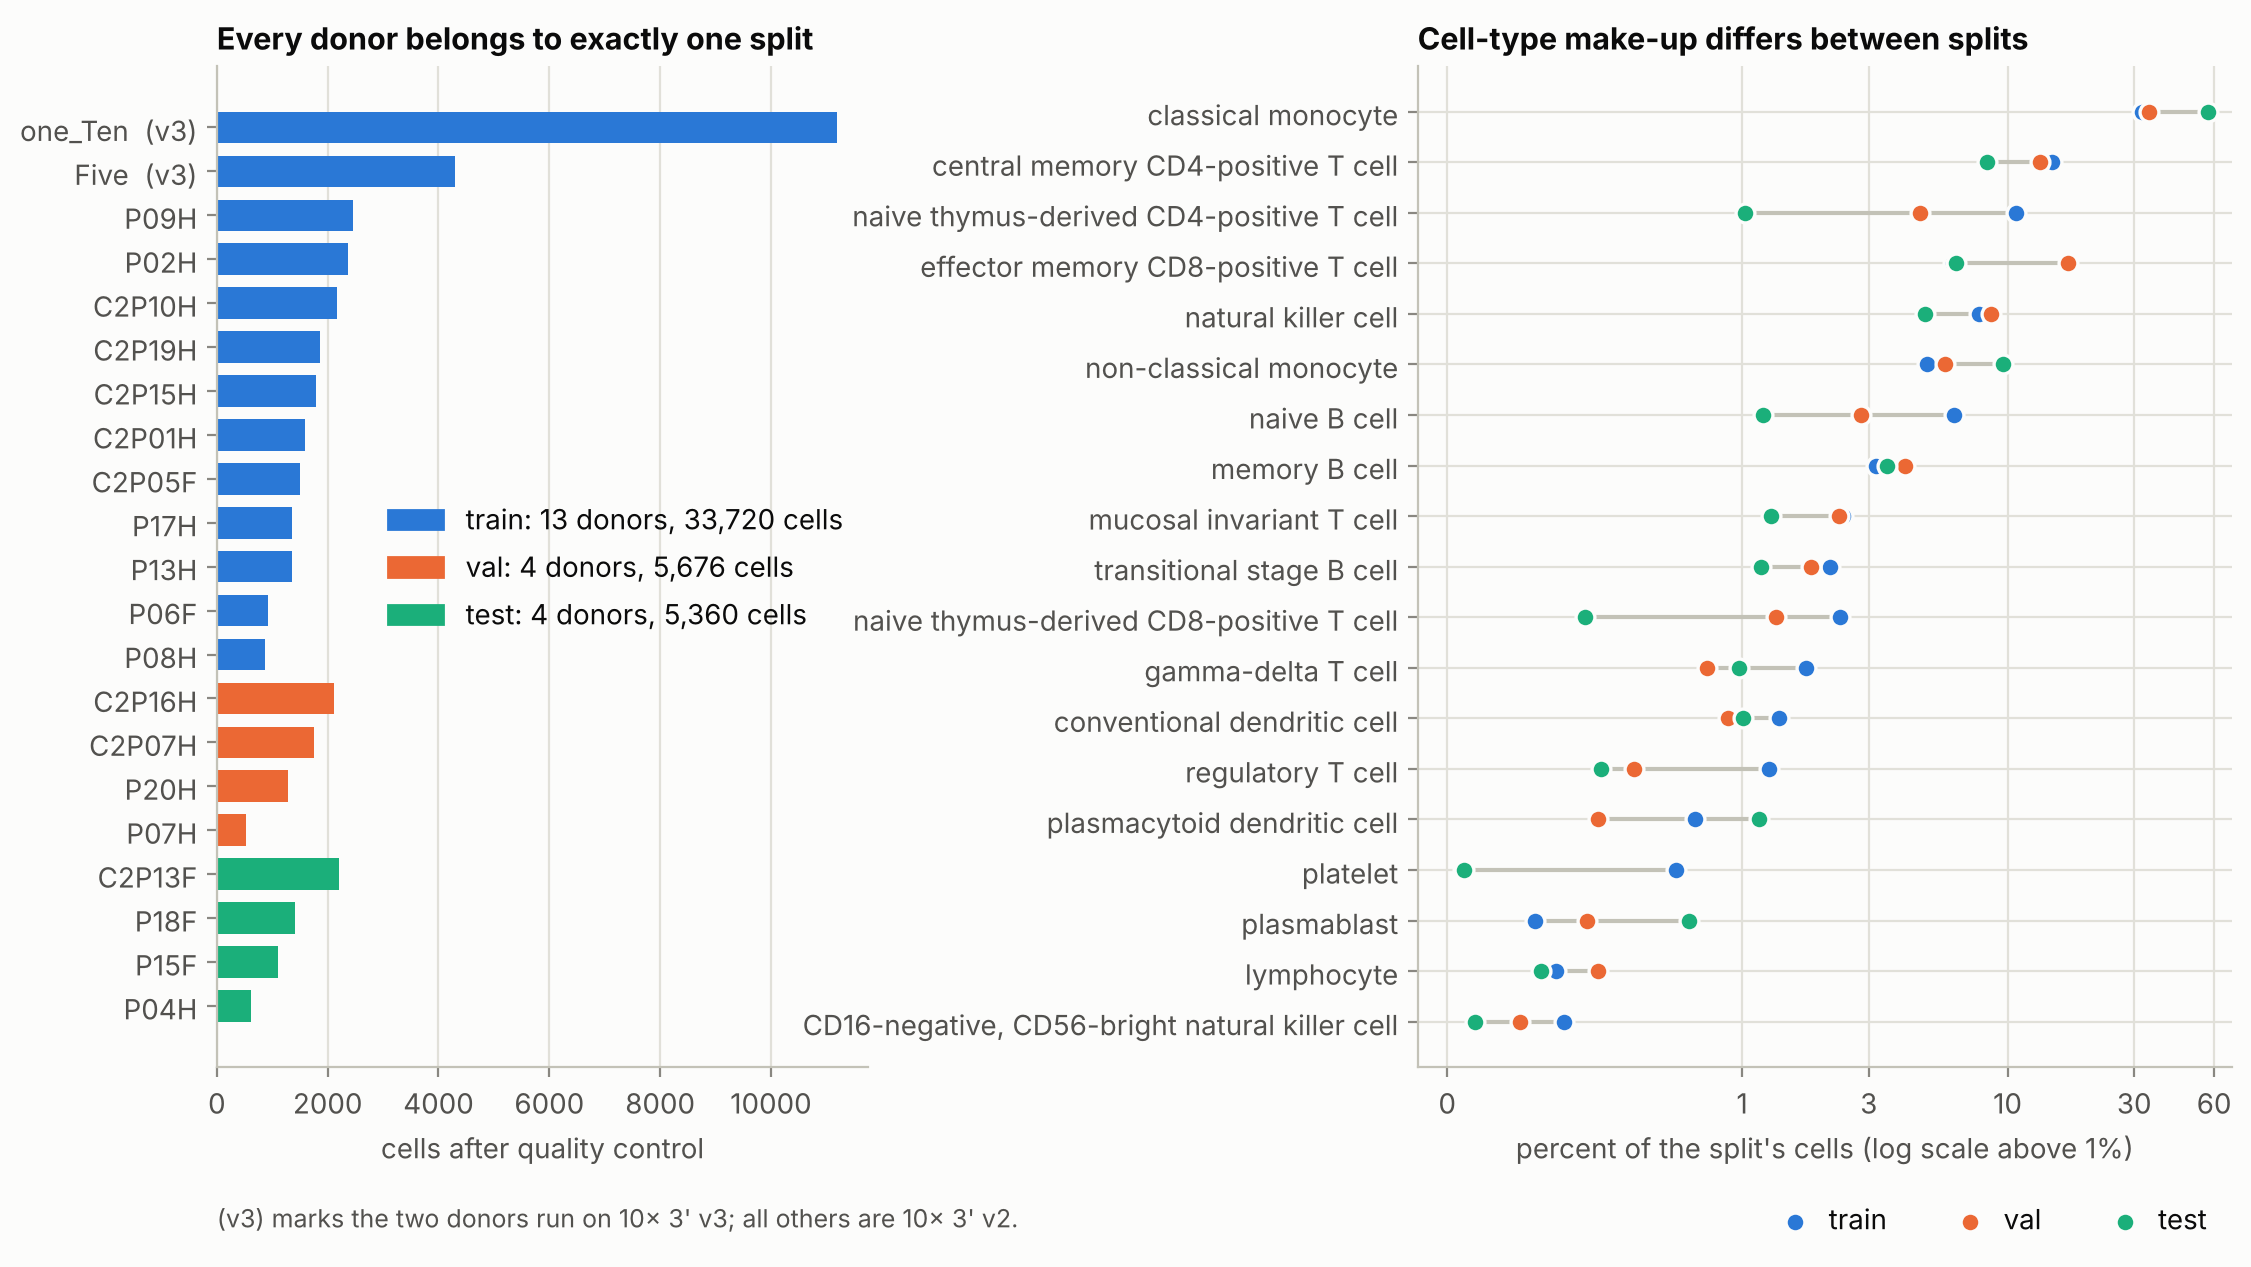
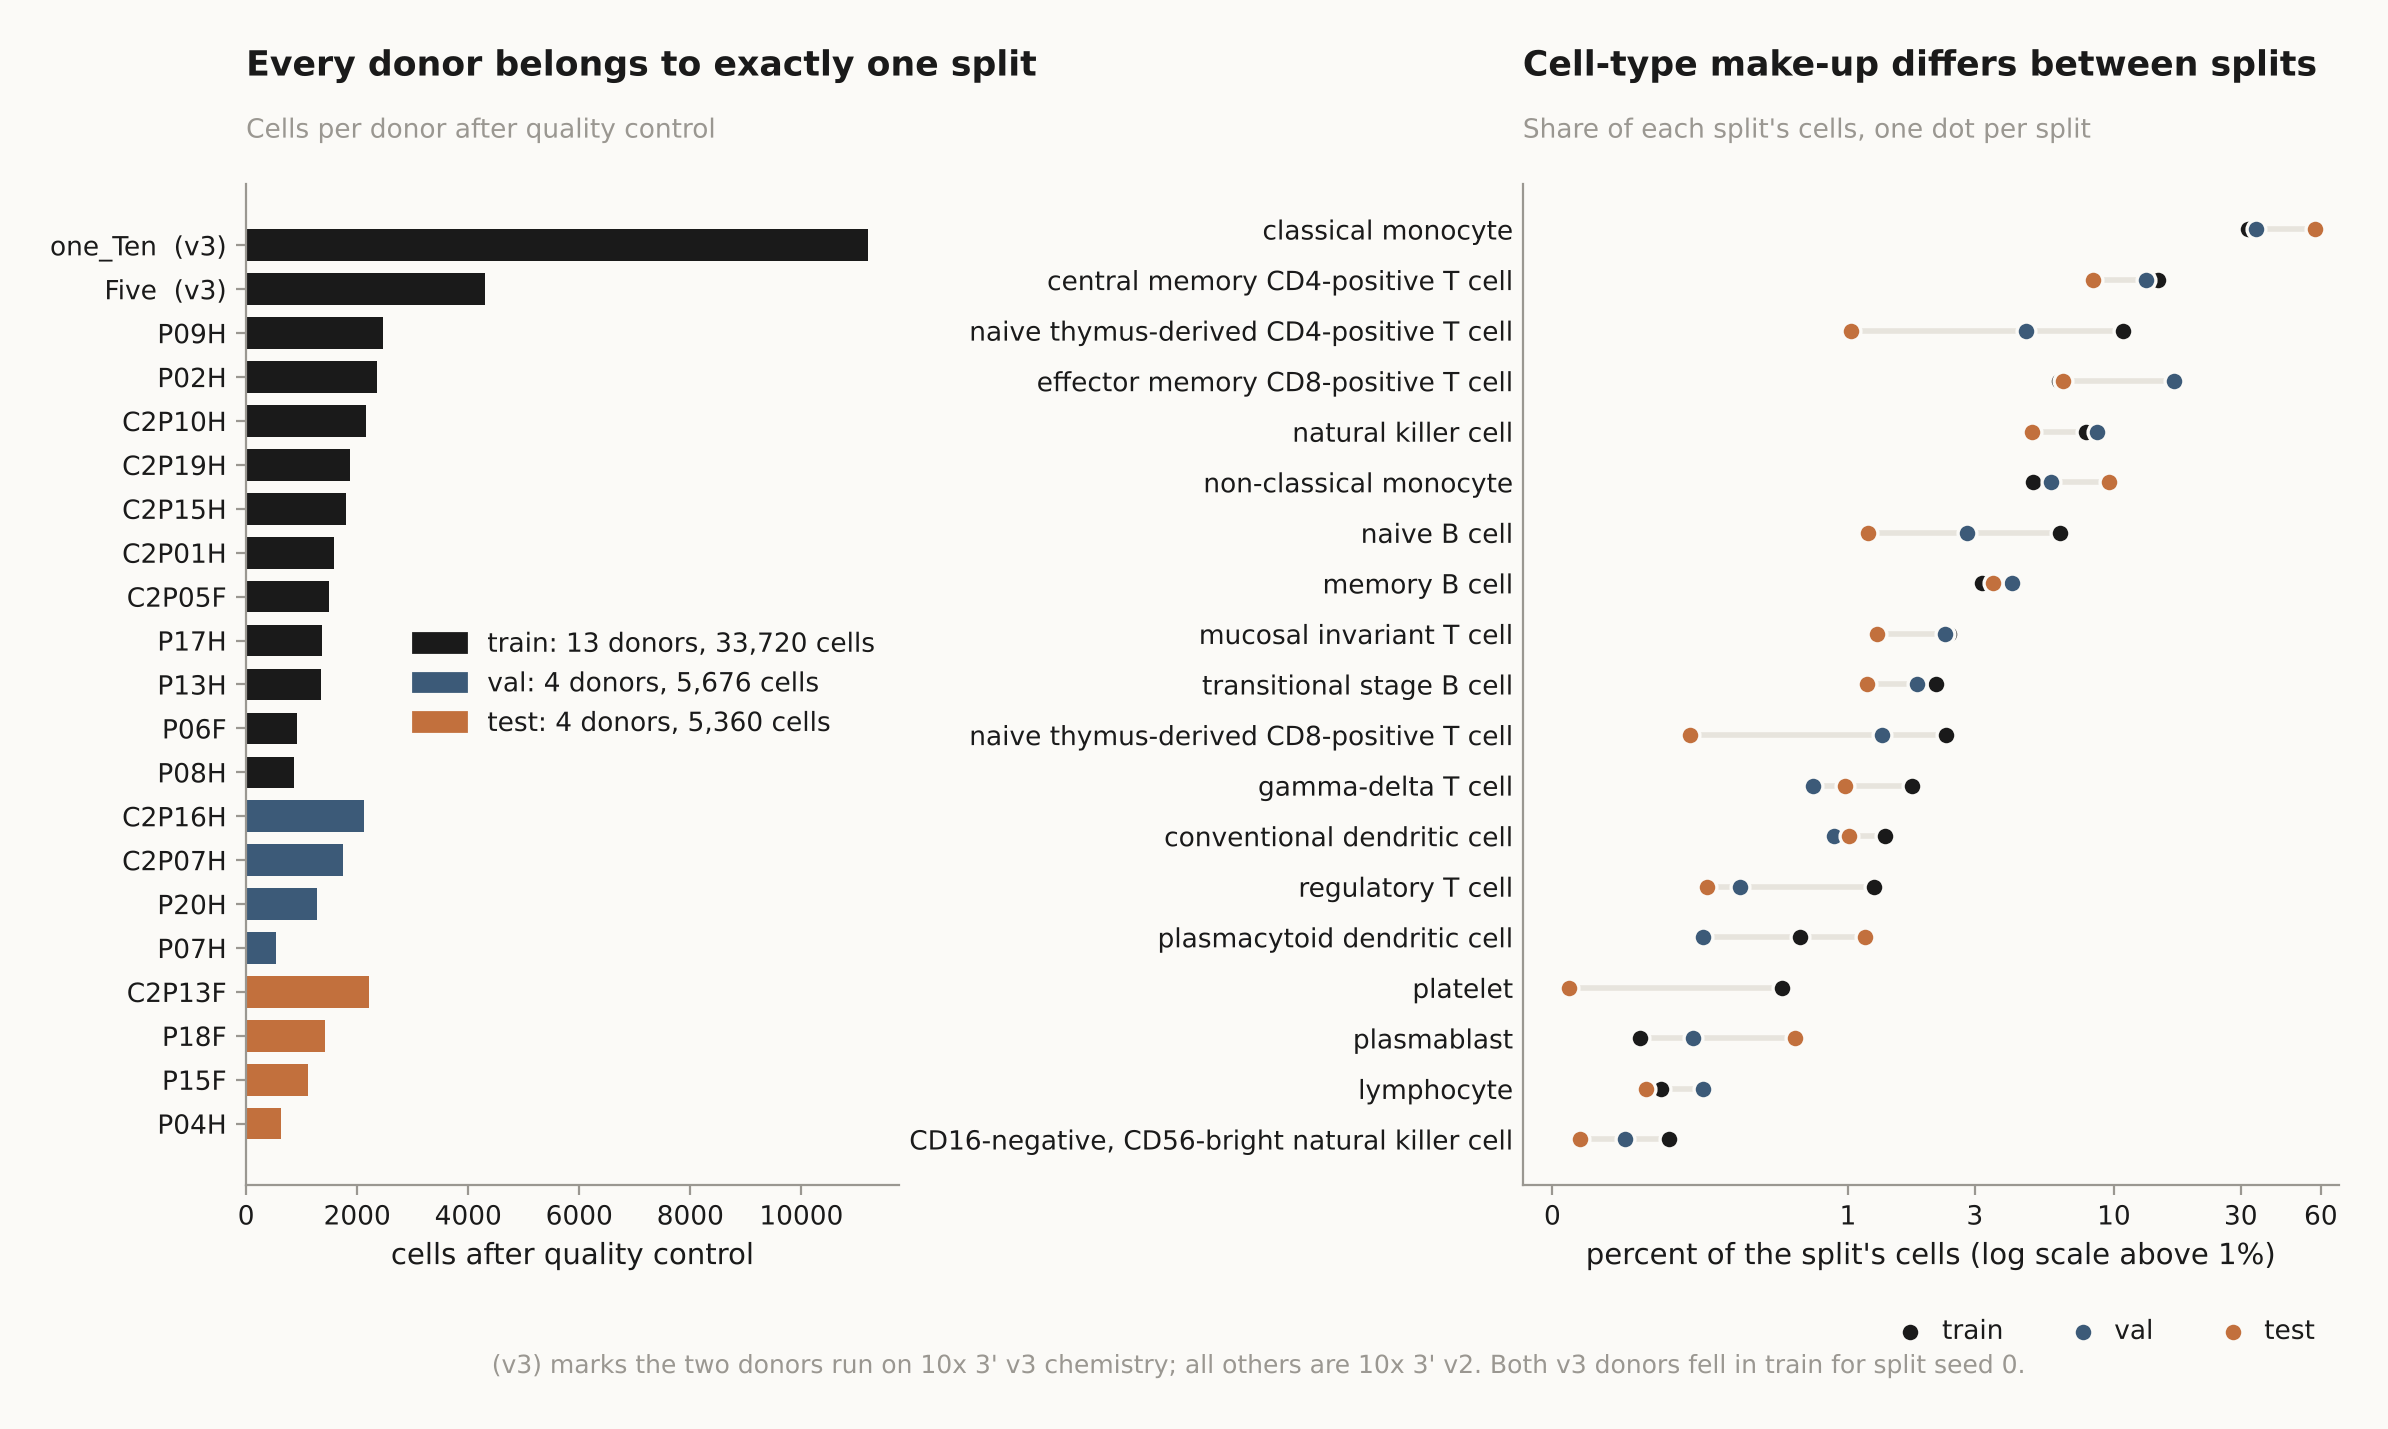
Adopt the figure style of the earlier DCMvsACM project

diff --git a/src/cellmap/plotting.py b/src/cellmap/plotting.py
@@ -1,45 +1,74 @@
-"""One shared figure style for every plot in the repo."""
+"""One shared figure style, so every figure in the repo reads as one hand.
+
+Same direction as the owner's earlier DCMvsACM project: off-white canvas, ink plus one warm
+accent and one cool secondary, restrained type, no gridlines unless they carry information.
+Headlines state the finding; the explanation goes in the caption, not inside the plot.
+"""
 
 import matplotlib as mpl
+from matplotlib.axes import Axes
+from matplotlib.figure import Figure
 
-SURFACE = "#fcfcfb"
-INK = "#0b0b0b"
-INK_SECONDARY = "#52514e"
-MUTED = "#898781"
-GRID = "#e1e0d9"
-AXIS = "#c3c2b7"
+INK = "#1A1A1A"
+PAPER = "#FBFAF7"
+MUTED = "#9A9791"
+GRID = "#E7E4DD"
+ACCENT = "#C2703D"  # terracotta: the thing of interest
+ACCENT_2 = "#3C5A78"  # slate blue: the second group, used sparingly
 
-# Categorical colors, always used in this order.
-SERIES = ["#2a78d6", "#eb6834", "#1baf7a", "#eda100", "#e87ba4", "#008300", "#6250d6", "#e34948"]
-SPLIT_COLORS = {"train": SERIES[0], "val": SERIES[1], "test": SERIES[2]}
+# Train is the reference (ink); test is what every result is about (accent).
+SPLIT_COLORS = {"train": INK, "val": ACCENT_2, "test": ACCENT}
+METHOD_COLORS = {"pca": INK, "pca_harmony": ACCENT}
+METHOD_NAMES = {"pca": "HVG + PCA", "pca_harmony": "PCA + Harmony"}
 
 
-def set_style() -> None:
-    """Apply the shared matplotlib style."""
+def apply() -> None:
+    """Set the shared matplotlib style. Call once per script."""
     mpl.rcParams.update(
         {
-            "figure.facecolor": SURFACE,
-            "axes.facecolor": SURFACE,
-            "savefig.facecolor": SURFACE,
-            "font.size": 10,
+            "font.family": "sans-serif",
+            "font.sans-serif": ["Helvetica", "Arial", "DejaVu Sans"],
+            "font.size": 11,
+            "axes.titlesize": 12,
+            "axes.labelsize": 10.5,
+            "axes.labelcolor": INK,
             "text.color": INK,
-            "axes.labelcolor": INK_SECONDARY,
-            "axes.edgecolor": AXIS,
-            "axes.titlesize": 11,
-            "axes.titleweight": "bold",
-            "axes.titlelocation": "left",
-            "axes.spines.top": False,
-            "axes.spines.right": False,
-            "axes.grid": True,
-            "axes.axisbelow": True,
-            "grid.color": GRID,
-            "grid.linewidth": 0.8,
+            "axes.edgecolor": MUTED,
+            "axes.linewidth": 0.8,
             "xtick.color": MUTED,
             "ytick.color": MUTED,
-            "xtick.labelcolor": INK_SECONDARY,
-            "ytick.labelcolor": INK_SECONDARY,
+            "xtick.labelcolor": INK,
+            "ytick.labelcolor": INK,
+            "xtick.labelsize": 9.5,
+            "ytick.labelsize": 9.5,
+            "figure.facecolor": PAPER,
+            "axes.facecolor": PAPER,
+            "savefig.facecolor": PAPER,
+            "axes.grid": False,
+            "axes.spines.top": False,
+            "axes.spines.right": False,
+            "grid.color": GRID,
+            "grid.linewidth": 0.8,
             "legend.frameon": False,
+            "legend.fontsize": 9.5,
+            "figure.dpi": 160,
             "savefig.dpi": 200,
             "savefig.bbox": "tight",
+            "savefig.pad_inches": 0.25,
         }
     )
+
+
+def title(ax: Axes, headline: str, sub: str | None = None) -> None:
+    """Bold left-aligned headline that states the finding, with an optional muted subline."""
+    ax.set_title("")
+    ax.text(0.0, 1.10, headline, transform=ax.transAxes, fontsize=12.5, fontweight="bold",
+            ha="left", va="bottom", color=INK)  # fmt: skip
+    if sub:
+        ax.text(0.0, 1.04, sub, transform=ax.transAxes, fontsize=9.5, ha="left", va="bottom",
+                color=MUTED)  # fmt: skip
+
+
+def figure_caption(fig: Figure, text: str, y: float = -0.02) -> None:
+    """Muted caption under the figure. The explanation lives here, not inside the plot."""
+    fig.text(0.5, y, text, ha="center", va="top", fontsize=9, color=MUTED, wrap=True)

diff --git a/scripts/m0_figures.py b/scripts/m0_figures.py
@@ -17,7 +17,7 @@ import matplotlib.pyplot as plt
 import pandas as pd
 from matplotlib.patches import Patch
 
-from cellmap.plotting import INK_SECONDARY, SPLIT_COLORS, set_style
+from cellmap.plotting import GRID, PAPER, SPLIT_COLORS, apply, figure_caption, title
 from cellmap.splits import SPLITS
 
 ROOT = Path(__file__).resolve().parents[1]
@@ -31,9 +31,9 @@ def main() -> None:
     donors = pd.read_csv(results / "donors.csv", index_col=0)
     types = pd.read_csv(results / "cell_types.csv", index_col=0)
 
-    set_style()
+    apply()
     fig, (ax1, ax2) = plt.subplots(
-        1, 2, figsize=(13, 6.5), gridspec_kw={"width_ratios": [1, 1.25], "wspace": 0.75}
+        1, 2, figsize=(13.5, 6.5), gridspec_kw={"width_ratios": [1, 1.25], "wspace": 0.85}
     )
 
     # Left: cells per donor, grouped by split.
@@ -42,36 +42,27 @@ def main() -> None:
         f"{d}  (v3)" if "v3" in a else d for d, a in zip(order.index, order["assay"], strict=True)
     ]
     ax1.barh(labels, order["cells"], color=order["split"].map(SPLIT_COLORS), height=0.72)
-    ax1.grid(axis="y", visible=False)
     ax1.set_xlabel("cells after quality control")
-    ax1.set_title("Every donor belongs to exactly one split")
+    title(ax1, "Every donor belongs to exactly one split", "Cells per donor after quality control")
     handles = []
     for s in SPLITS:
         sub = donors[donors["split"] == s]
         label = f"{s}: {len(sub)} donors, {sub['cells'].sum():,} cells"
         handles.append(Patch(color=SPLIT_COLORS[s], label=label))
     ax1.legend(handles=handles, loc="center right")
-    ax1.text(
-        0,
-        -0.16,
-        "(v3) marks the two donors run on 10x 3' v3; all others are 10x 3' v2.",
-        transform=ax1.transAxes,
-        color=INK_SECONDARY,
-        fontsize=9,
-    )
 
     # Right: share of each split made up by each cell type.
     share = 100 * types[list(SPLITS)] / types[list(SPLITS)].sum()
     share = share.iloc[::-1]
     y = range(len(share))
-    ax2.hlines(y, share.min(axis=1), share.max(axis=1), color="#c3c2b7", linewidth=1.5, zorder=1)
+    ax2.hlines(y, share.min(axis=1), share.max(axis=1), color=GRID, linewidth=2, zorder=1)
     for s in SPLITS:
         ax2.scatter(
             share[s],
             y,
             s=46,
             color=SPLIT_COLORS[s],
-            edgecolor="#fcfcfb",
+            edgecolor=PAPER,
             linewidth=1.2,
             label=s,
             zorder=2,
@@ -83,9 +74,19 @@ def main() -> None:
     ax2.set_xticks([0, 1, 3, 10, 30, 60], ["0", "1", "3", "10", "30", "60"])
     ax2.set_xlim(-0.1, 70)
     ax2.set_xlabel("percent of the split's cells (log scale above 1%)")
-    ax2.set_title("Cell-type make-up differs between splits")
+    title(
+        ax2,
+        "Cell-type make-up differs between splits",
+        "Share of each split's cells, one dot per split",
+    )
+    ax2.tick_params(axis="y", length=0)
     ax2.legend(loc="upper right", bbox_to_anchor=(1.0, -0.11), ncol=3, handletextpad=0.2)
 
+    figure_caption(
+        fig,
+        "(v3) marks the two donors run on 10x 3' v3 chemistry; all others are 10x 3' v2. "
+        "Both v3 donors fell in train for split seed 0.",
+    )
     out = ROOT / "assets" / f"m0_split_{args.name}.png"
     out.parent.mkdir(exist_ok=True)
     fig.savefig(out)
